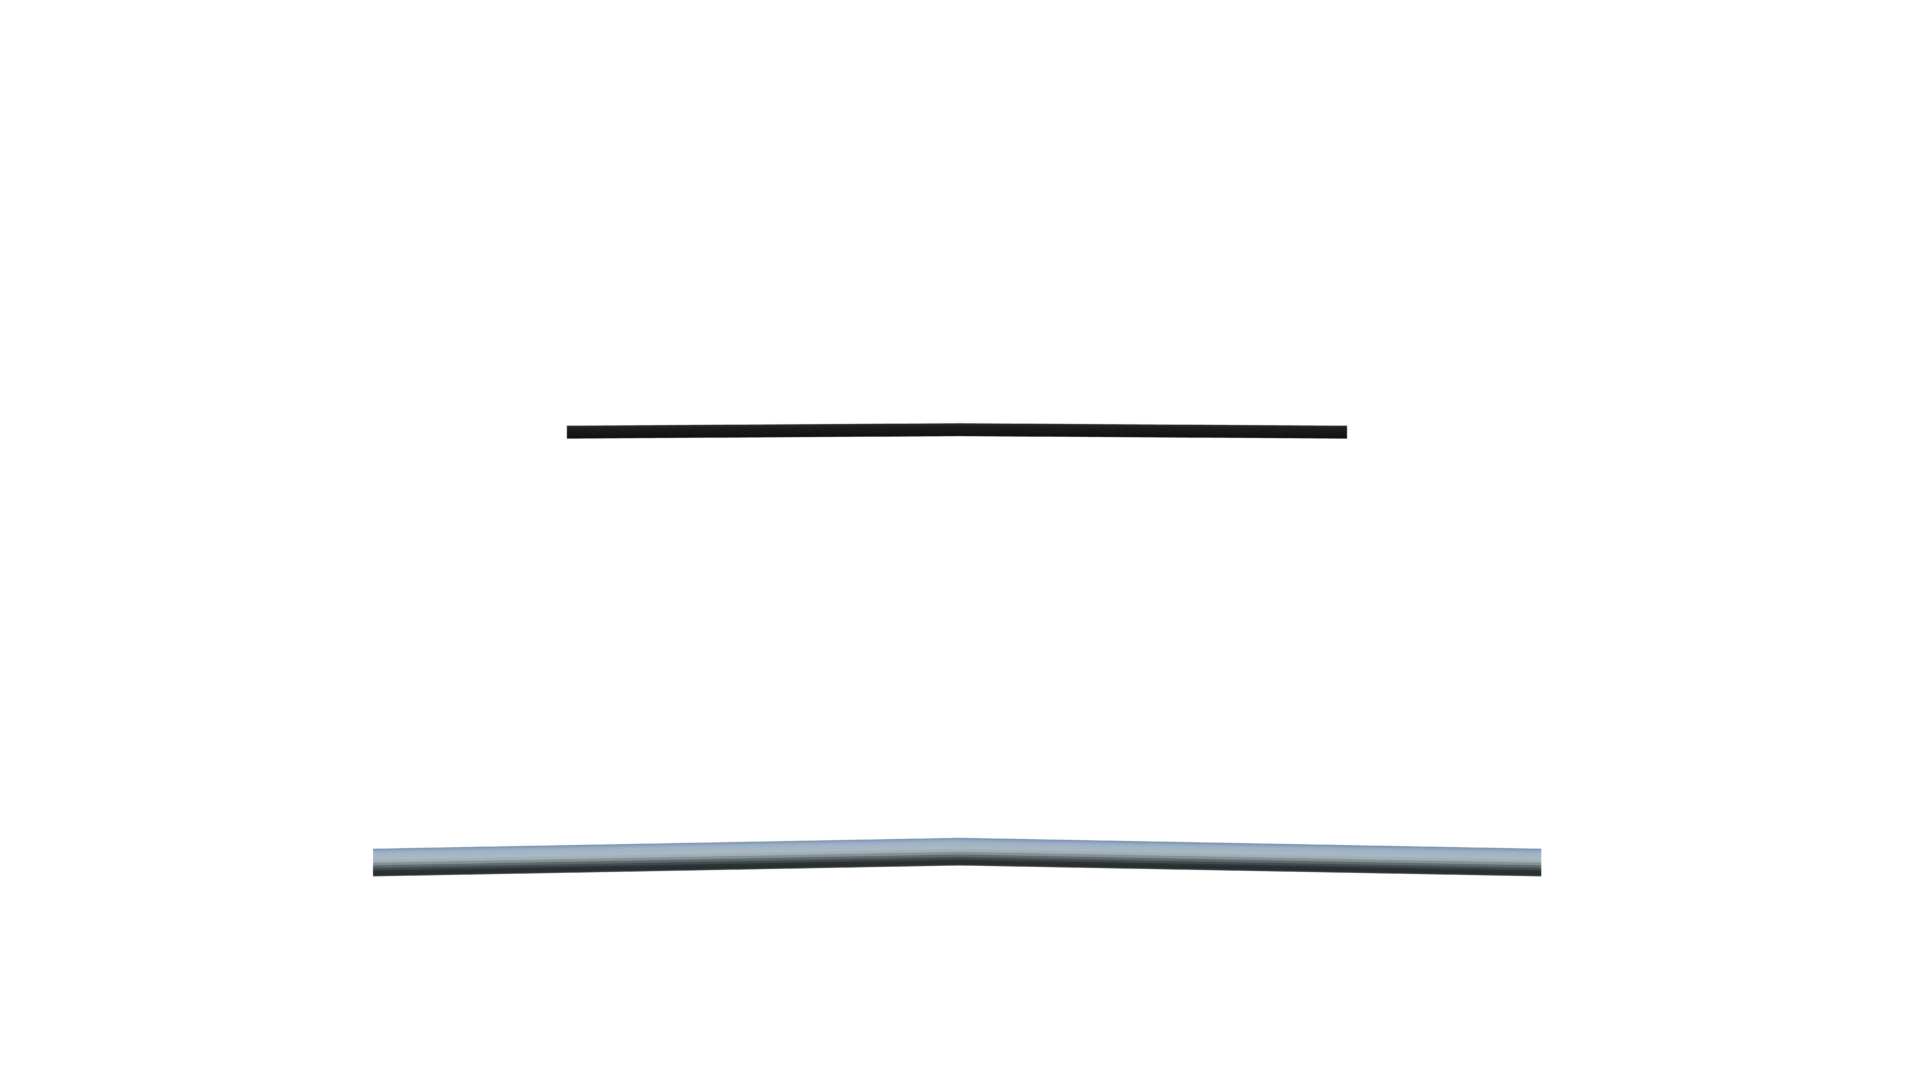
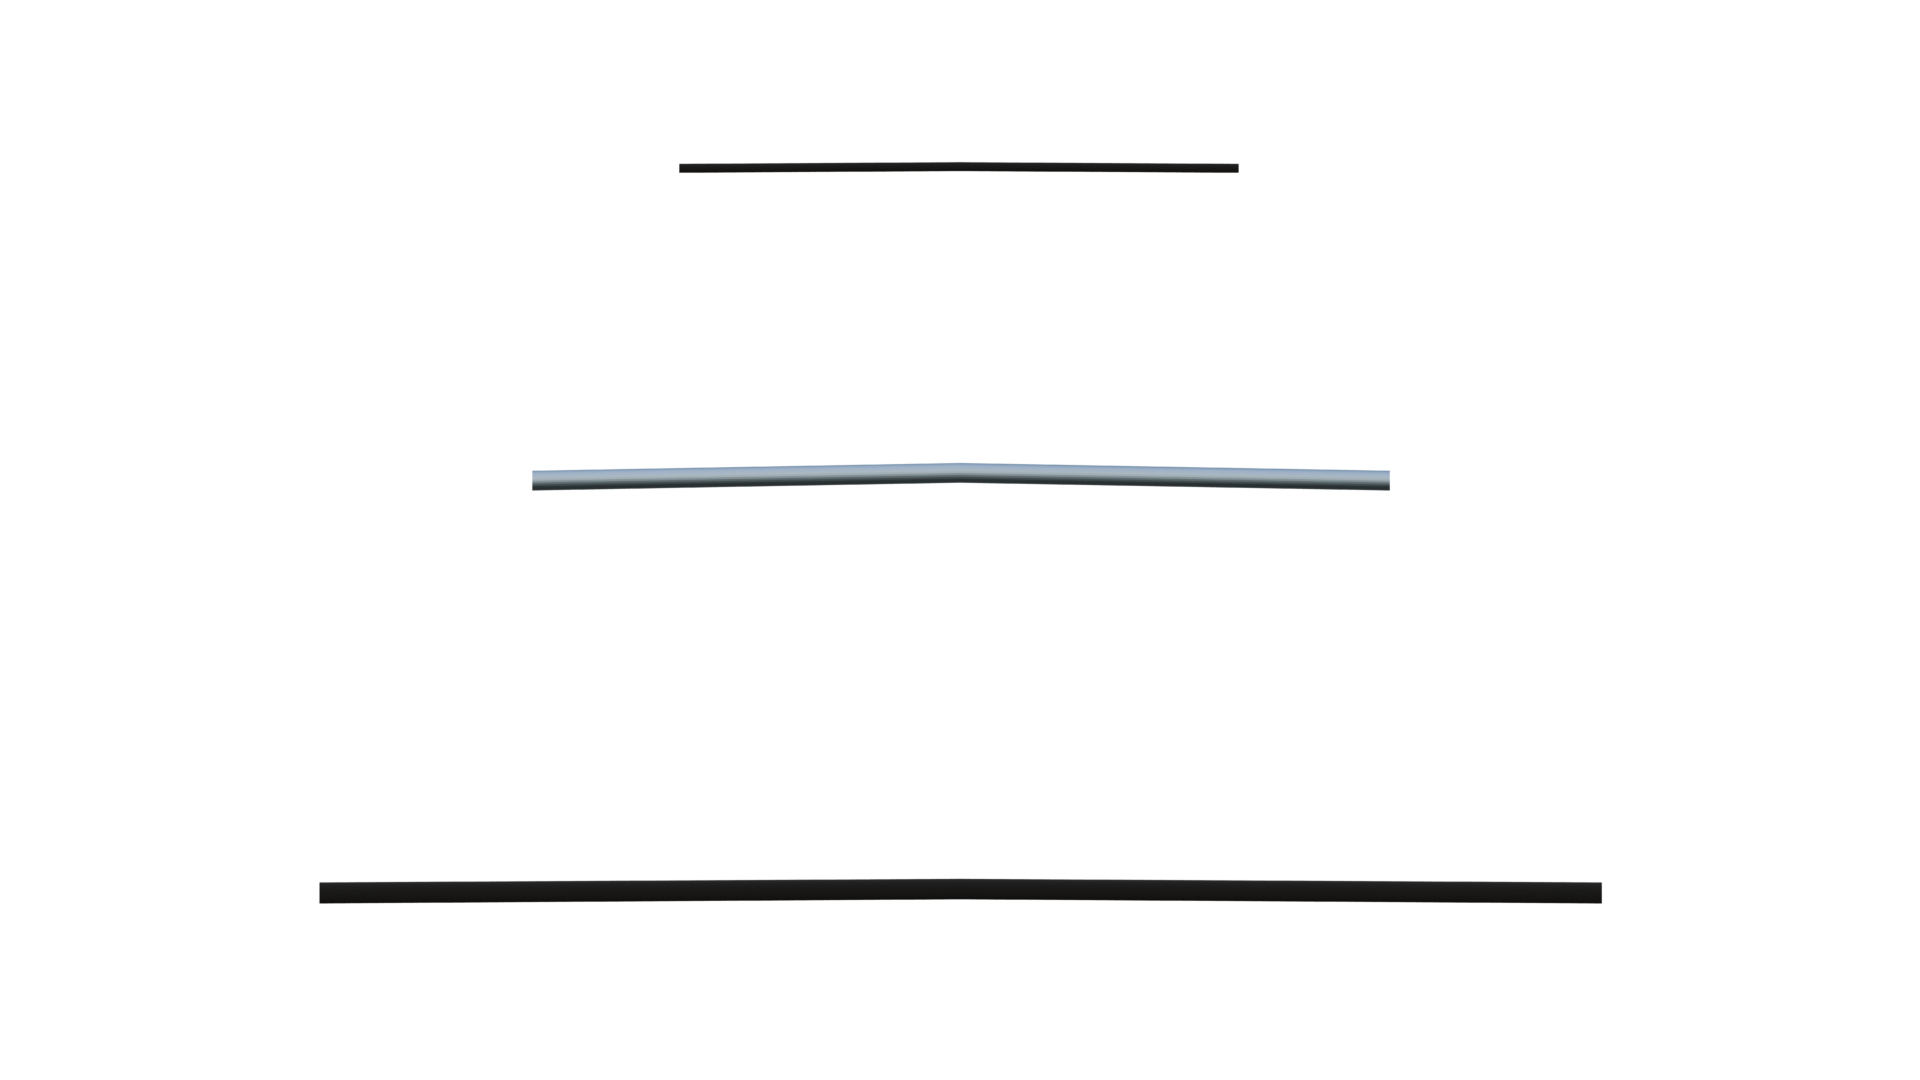
Mejora de assets y codigo
Modifique los assets y añadi una variante de tecla

Changed region(s): [[0.1562, 0.7639, 0.8438, 0.8556], [0.2812, 0.3667, 0.75, 0.4583], [0.3438, 0.1528, 0.6562, 0.1833]]

diff --git a/GuitarHuergo.py b/GuitarHuergo.py
@@ -31,7 +31,43 @@ cuerda_anim = {"0":pygame.image.load(os.path.join(bgnd_assets,"Lines0.png")).con
              "8":pygame.image.load(os.path.join(bgnd_assets,"Lines8.png")).convert_alpha(),
              "9":pygame.image.load(os.path.join(bgnd_assets,"Lines9.png")).convert_alpha(),
              "10":pygame.image.load(os.path.join(bgnd_assets,"Lines10.png")).convert_alpha(),
-             "11":pygame.image.load(os.path.join(bgnd_assets,"Lines11.png")).convert_alpha(),}
+             "11":pygame.image.load(os.path.join(bgnd_assets,"Lines11.png")).convert_alpha(),
+             "12":pygame.image.load(os.path.join(bgnd_assets,"Lines12.png")).convert_alpha(),
+             "13":pygame.image.load(os.path.join(bgnd_assets,"Lines13.png")).convert_alpha(),
+             "14":pygame.image.load(os.path.join(bgnd_assets,"Lines14.png")).convert_alpha(),
+             "15":pygame.image.load(os.path.join(bgnd_assets,"Lines15.png")).convert_alpha(),
+             "16":pygame.image.load(os.path.join(bgnd_assets,"Lines16.png")).convert_alpha(),
+             "17":pygame.image.load(os.path.join(bgnd_assets,"Lines17.png")).convert_alpha(),
+             "18":pygame.image.load(os.path.join(bgnd_assets,"Lines18.png")).convert_alpha(),
+             "19":pygame.image.load(os.path.join(bgnd_assets,"Lines19.png")).convert_alpha(),
+             "20":pygame.image.load(os.path.join(bgnd_assets,"Lines20.png")).convert_alpha(),
+             "21":pygame.image.load(os.path.join(bgnd_assets,"Lines21.png")).convert_alpha(),
+             "22":pygame.image.load(os.path.join(bgnd_assets,"Lines22.png")).convert_alpha(),
+             "23":pygame.image.load(os.path.join(bgnd_assets,"Lines23.png")).convert_alpha(),
+             "24":pygame.image.load(os.path.join(bgnd_assets,"Lines24.png")).convert_alpha(),
+             "25":pygame.image.load(os.path.join(bgnd_assets,"Lines25.png")).convert_alpha(),
+             "26":pygame.image.load(os.path.join(bgnd_assets,"Lines26.png")).convert_alpha(),
+             "27":pygame.image.load(os.path.join(bgnd_assets,"Lines27.png")).convert_alpha(),
+             "28":pygame.image.load(os.path.join(bgnd_assets,"Lines28.png")).convert_alpha(),
+             "29":pygame.image.load(os.path.join(bgnd_assets,"Lines29.png")).convert_alpha(),
+             "30":pygame.image.load(os.path.join(bgnd_assets,"Lines30.png")).convert_alpha(),
+             "31":pygame.image.load(os.path.join(bgnd_assets,"Lines31.png")).convert_alpha(),
+             "32":pygame.image.load(os.path.join(bgnd_assets,"Lines32.png")).convert_alpha(),
+             "33":pygame.image.load(os.path.join(bgnd_assets,"Lines33.png")).convert_alpha(),
+             "34":pygame.image.load(os.path.join(bgnd_assets,"Lines34.png")).convert_alpha(),
+             "35":pygame.image.load(os.path.join(bgnd_assets,"Lines35.png")).convert_alpha(),
+             "36":pygame.image.load(os.path.join(bgnd_assets,"Lines36.png")).convert_alpha(),
+             "37":pygame.image.load(os.path.join(bgnd_assets,"Lines37.png")).convert_alpha(),
+             "38":pygame.image.load(os.path.join(bgnd_assets,"Lines38.png")).convert_alpha(),
+             "39":pygame.image.load(os.path.join(bgnd_assets,"Lines39.png")).convert_alpha(),
+             "40":pygame.image.load(os.path.join(bgnd_assets,"Lines40.png")).convert_alpha(),
+             "41":pygame.image.load(os.path.join(bgnd_assets,"Lines41.png")).convert_alpha(),
+             "42":pygame.image.load(os.path.join(bgnd_assets,"Lines42.png")).convert_alpha(),
+             "43":pygame.image.load(os.path.join(bgnd_assets,"Lines43.png")).convert_alpha(),
+             "44":pygame.image.load(os.path.join(bgnd_assets,"Lines44.png")).convert_alpha(),
+             "45":pygame.image.load(os.path.join(bgnd_assets,"Lines45.png")).convert_alpha(),
+             "46":pygame.image.load(os.path.join(bgnd_assets,"Lines46.png")).convert_alpha(),
+             "47":pygame.image.load(os.path.join(bgnd_assets,"Lines47.png")).convert_alpha(),}
 
 # EL DICCIONARIO ES UTIL PARA YA TENER LOS FOTOGRAMAS DE LA ANIMACION CARGADAS
 
@@ -48,36 +84,58 @@ B_K = pygame.image.load(os.path.join(normal_keys,"Blue.png")).convert_alpha()
 O_K = pygame.image.load(os.path.join(normal_keys,"Orange.png")).convert_alpha()
 
 # Teclas cuando son presionadas
-hit_keys = os.path.join(key_assets,"Hit")
+hit_keysN = os.path.join(key_assets,"HitNormal")
 
-G_KH = pygame.image.load(os.path.join(hit_keys,"Green.png")).convert_alpha()
-R_KH = pygame.image.load(os.path.join(hit_keys,"Red.png")).convert_alpha()
-Y_KH = pygame.image.load(os.path.join(hit_keys,"Yellow.png")).convert_alpha()
-B_KH = pygame.image.load(os.path.join(hit_keys,"Blue.png")).convert_alpha()
-O_KH = pygame.image.load(os.path.join(hit_keys,"Orange.png")).convert_alpha()
+G_KHN = pygame.image.load(os.path.join(hit_keysN,"Green.png")).convert_alpha()
+R_KHN = pygame.image.load(os.path.join(hit_keysN,"Red.png")).convert_alpha()
+Y_KHN = pygame.image.load(os.path.join(hit_keysN,"Yellow.png")).convert_alpha()
+B_KHN = pygame.image.load(os.path.join(hit_keysN,"Blue.png")).convert_alpha()
+O_KHN = pygame.image.load(os.path.join(hit_keysN,"Orange.png")).convert_alpha()
+
+# Teclas cuando son presionadas con la strum bar
+hit_keysB = os.path.join(key_assets,"HitBar")
+
+G_KHB = pygame.image.load(os.path.join(hit_keysB,"Green.png")).convert_alpha()
+R_KHB = pygame.image.load(os.path.join(hit_keysB,"Red.png")).convert_alpha()
+Y_KHB = pygame.image.load(os.path.join(hit_keysB,"Yellow.png")).convert_alpha()
+B_KHB = pygame.image.load(os.path.join(hit_keysB,"Blue.png")).convert_alpha()
+O_KHB = pygame.image.load(os.path.join(hit_keysB,"Orange.png")).convert_alpha()
 
 def draw_background(fps):
     window.fill("black") # CONVIERTE EL FONDO EN NEGRO
     window.blit(cuerda_anim[str(int(fps))])
     window.blit(traste,(0,0))
-    if teclas[pygame.K_q]:
-        window.blit(G_KH, (0,0))
+
+    teclas = pygame.key.get_pressed()
+
+    if teclas[pygame.K_a] and teclas[pygame.K_SPACE]:
+        window.blit(G_KHB, (0,0))
+    elif teclas[pygame.K_a]:
+        window.blit(G_KHN, (0,0))
     else:
         window.blit(G_K, (0,0))
-    if teclas[pygame.K_w]:
-        window.blit(R_KH, (0,0))
+    if teclas[pygame.K_s] and teclas[pygame.K_SPACE]:
+        window.blit(R_KHB, (0,0))
+    elif teclas[pygame.K_s]:
+        window.blit(R_KHN, (0,0))
     else:
         window.blit(R_K, (0,0))
-    if teclas[pygame.K_e]:
-        window.blit(Y_KH, (0,0))
+    if teclas[pygame.K_j] and teclas[pygame.K_SPACE]:
+        window.blit(Y_KHB, (0,0))
+    elif teclas[pygame.K_j]:
+        window.blit(Y_KHN, (0,0))
     else:
         window.blit(Y_K, (0,0))
-    if teclas[pygame.K_r]:
-        window.blit(B_KH, (0,0))
+    if teclas[pygame.K_k] and teclas[pygame.K_SPACE]:
+        window.blit(B_KHB, (0,0))
+    elif teclas[pygame.K_k]:
+        window.blit(B_KHN, (0,0))
     else:
         window.blit(B_K, (0,0))
-    if teclas[pygame.K_t]:
-        window.blit(O_KH, (0,0))
+    if teclas[pygame.K_l] and teclas[pygame.K_SPACE]:
+        window.blit(O_KHB, (0,0))
+    elif teclas[pygame.K_l]:
+        window.blit(O_KHN, (0,0))
     else:
         window.blit(O_K, (0,0))
 
@@ -89,13 +147,11 @@ while True:
             pygame.quit()
             exit()
     
-    teclas = pygame.key.get_pressed()
-
     draw_background(bgr_fps)
 
-    bgr_fps += 0.25
+    bgr_fps += 0.5
 
-    if bgr_fps > 11:
+    if bgr_fps > 47:
         bgr_fps = 0
     pygame.display.update()
     clock.tick(60)
